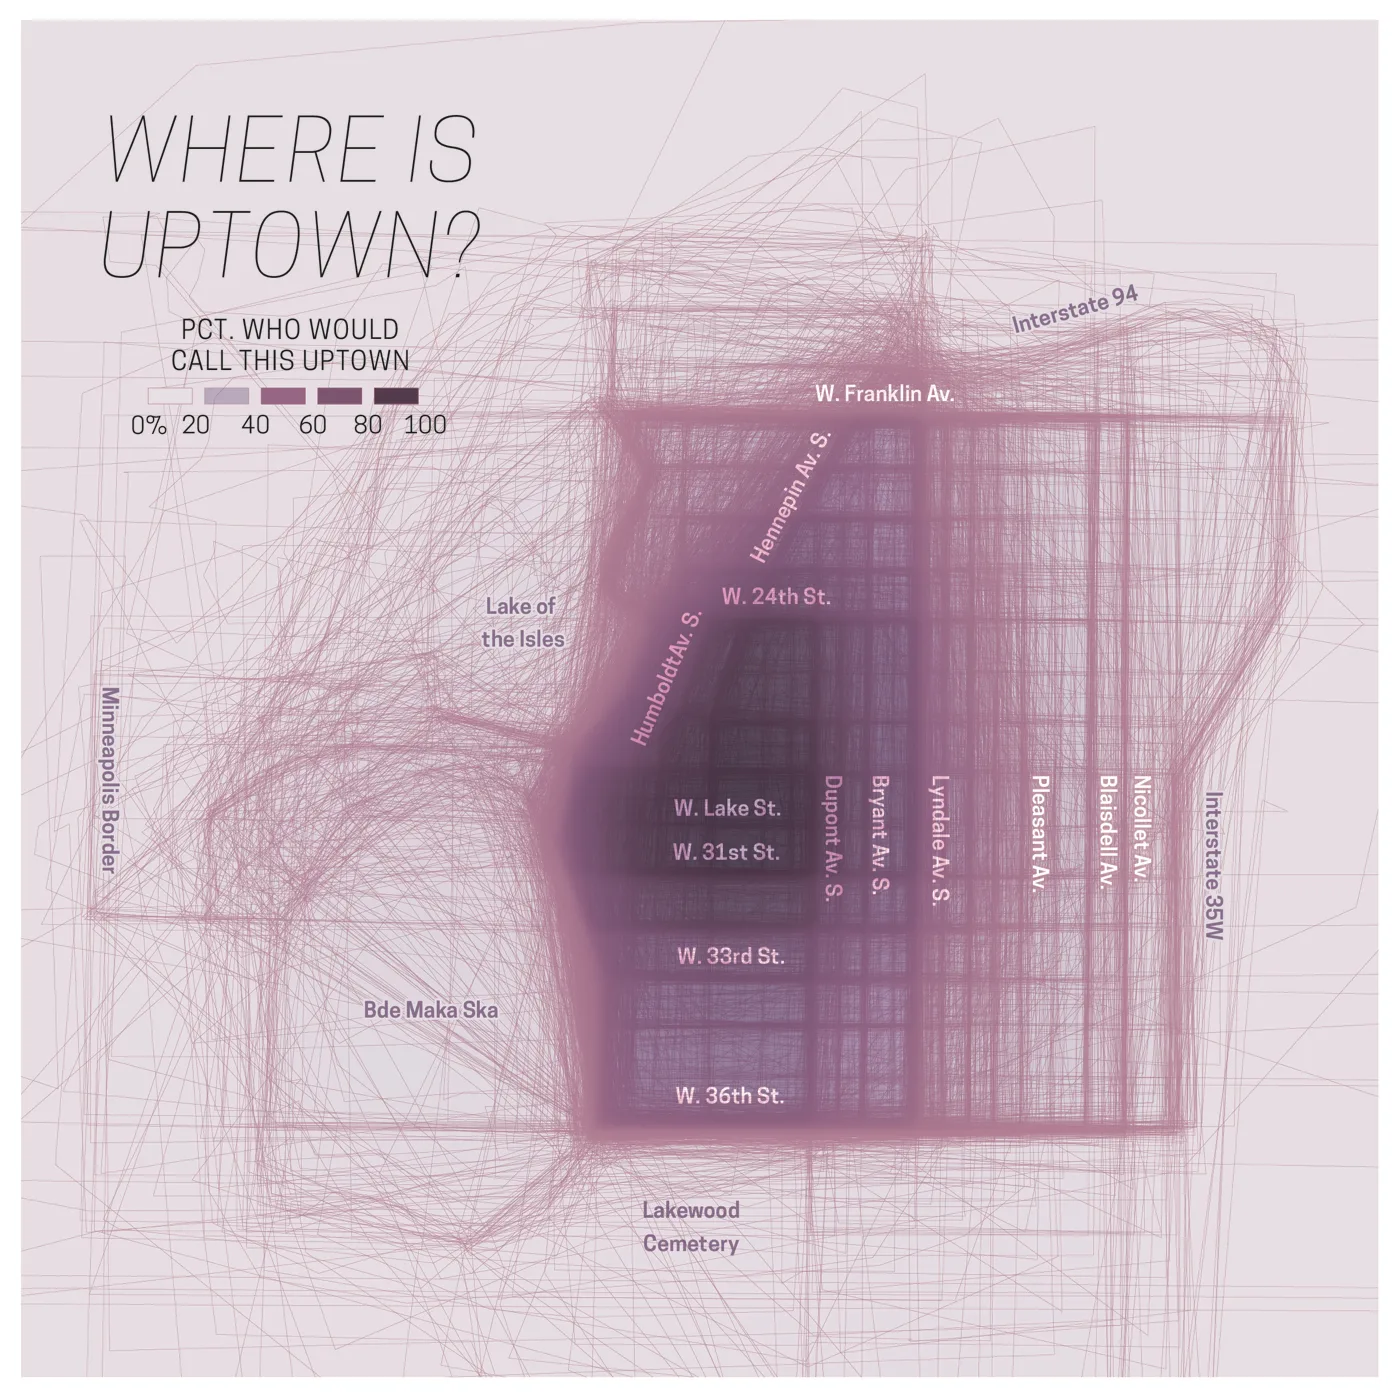
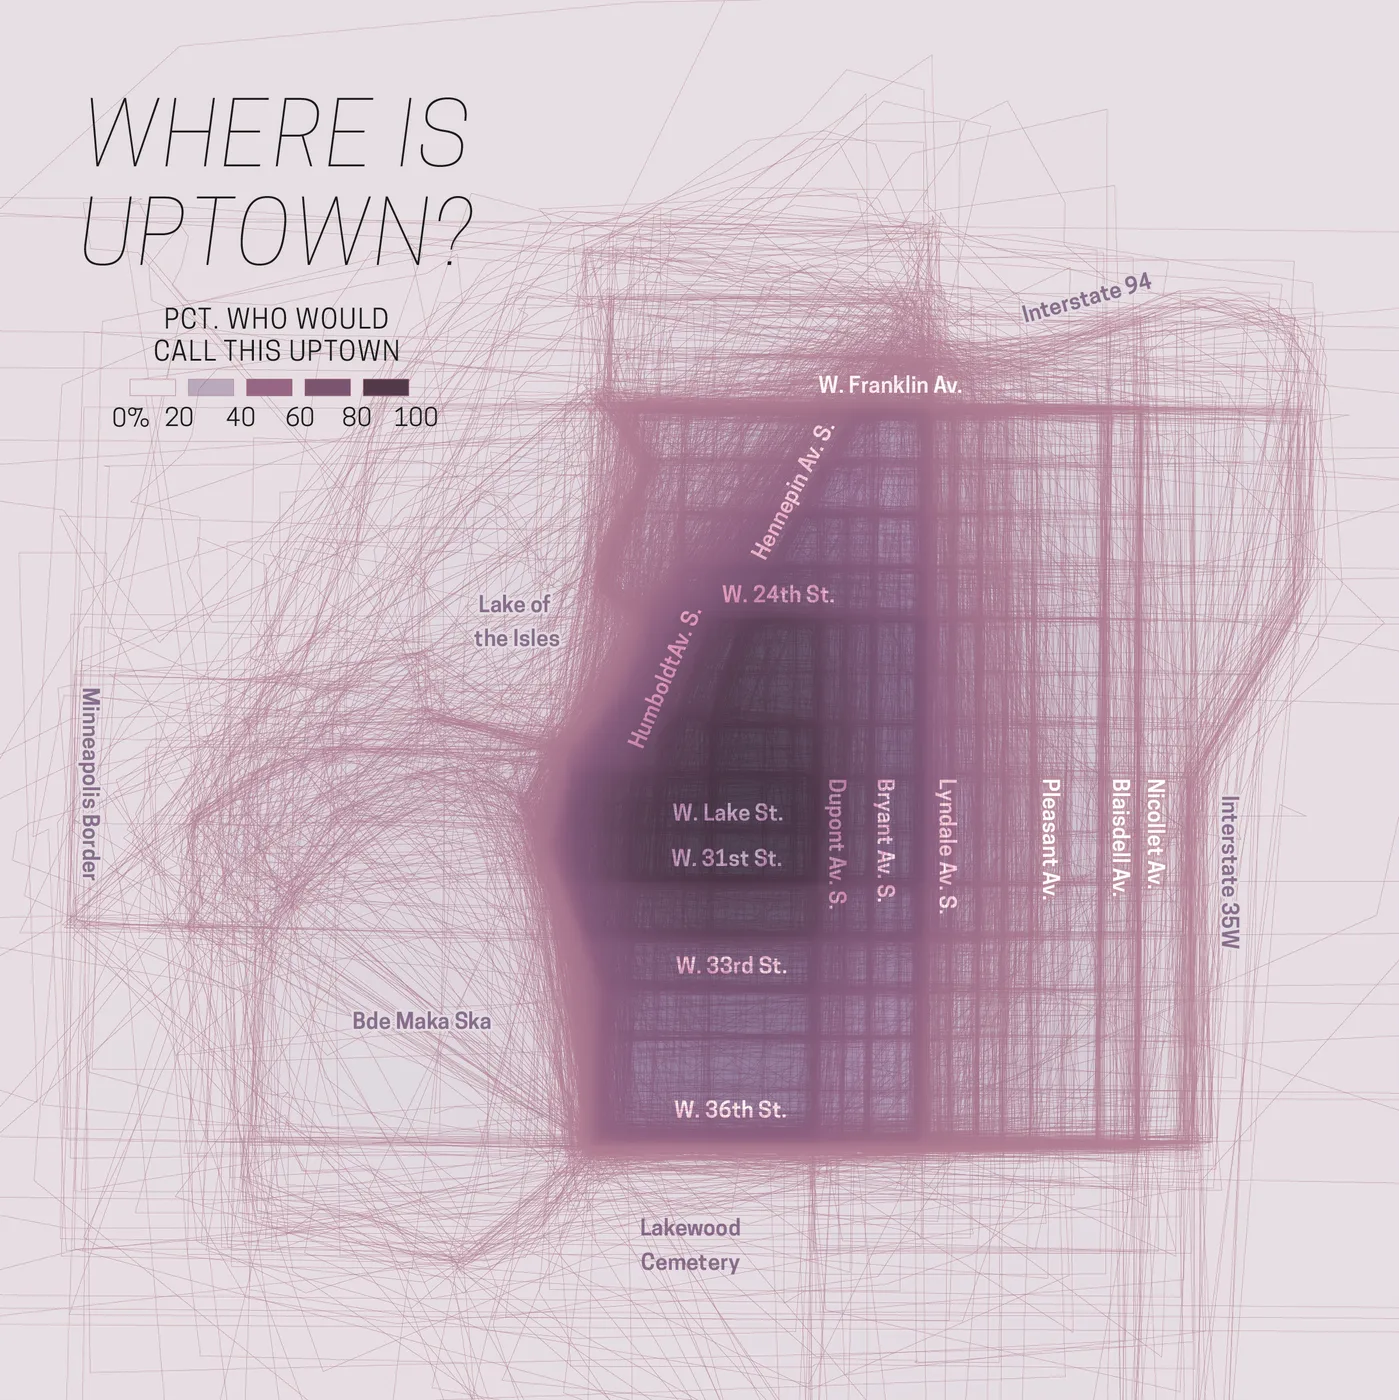
Fill in 22, A Map with its glyphs; trim the Uptown book map
22, A Map gets its year, tags and description, a 2-column panel, and the
story's seven glyphs laid out loosely (scatter: true: unframed, tilted,
in rows filling the width). The Uptown book map loses its white margin,
and "In the book" markers on panel pictures move to the top right.

diff --git a/js/projects.js b/js/projects.js
@@ -56,6 +56,10 @@ const TAGS = [
                                                //   Left "" → the panel shows a placeholder.
                                                //   HTML is allowed, e.g. a link:
                                                //   <a href=\"https://…\" target=\"_blank\">text</a>
+     scatter:     false,                       // optional: true lays the pictures out loosely,
+                                               //   unframed and slightly tilted, in rows filling
+                                               //   the width (for cut-out art on a clear
+                                               //   background, like 22, A Map's glyphs)
      mediaHalf:   false,                       // optional: true gives the pictures exactly half
                                                //   of a 3-column panel, filling it (no height limit)
      images:      [],                          // extra pictures for the panel, e.g.
@@ -197,16 +201,26 @@ const PROJECTS = [
   {
     title:       "22, A Map",
     slug:        "22-a-map",
-    year:        "",
-    panelCols:   3,
+    year:        "2022",
+    panelCols:   2,
     tile:        "img/tiles/22-a-map.webp",
     video:       "img/tiles/22-a-map.mp4",
     link:        "22map.html",
     linkType:    "page",
-    tags:        ["interactive", "illustrated"],
+    tags:        ["interactive", "scrollytelling"],
     inBook:      false,
-    description: "",
-    images:      [],
+    description: "A Mapbox-inspired journey through the aesthetic universe of Bon Iver’s " +
+                 "<em>22, A Million</em>, designed by Eric Timothy Carlson.",
+    scatter:     true,                            // the glyphs, loosely scattered rather than framed
+    images:      [                                 // the glyphs between the story's sections, in order
+      { src: "img/dude-01.svg", full: false },
+      { src: "img/fireball-01.svg", full: false },
+      { src: "img/weed-01.svg", full: false },
+      { src: "img/twoface-01.svg", full: false },
+      { src: "img/fingers-01.svg", full: false },
+      { src: "img/turnblue-01.svg", full: false },
+      { src: "img/astuary-01.svg", full: false }
+    ],
     awards:      []
   },
   {

diff --git a/css/portfolio.css b/css/portfolio.css
@@ -224,8 +224,13 @@ body { overflow-anchor: none; }
   border-right: 1px solid var(--stroke); border-bottom: 1px solid var(--stroke);
 }
 
-/* smaller on a panel's pictures ({ src, inBook: true } in projects.js) */
-.pshots .marker { font-size: 9px; padding: 3px 6px; }
+/* smaller on a panel's pictures ({ src, inBook: true } in projects.js),
+   and in the top right corner */
+.pshots .marker {
+  font-size: 9px; padding: 3px 6px;
+  left: auto; right: 0;
+  border-right: 0; border-left: 1px solid var(--stroke);
+}
 
 /* title + tags under each tile */
 .cap { display: block; margin-top: 12px; }
@@ -483,6 +488,26 @@ body { overflow-anchor: none; }
    doesn't stretch the rows, it simply fills the space they make */
 .pshots.tallmix > [data-tall] { grid-row: 1 / -1; position: relative; }
 .pshots.tallmix > [data-tall] img { position: absolute; inset: 0; width: 100%; height: 100%; aspect-ratio: auto; }
+
+/* scattered pictures (scatter: true in projects.js, e.g. 22, A Map's
+   glyphs): no frames, uncropped, in rows that fill the width, each row's
+   pictures at matching heights (the same shape trick as .mosaic). Pictures
+   start about --scatter-h tall; the rows then stretch to fill. Each one is
+   tilted a little, alternating, so they look scattered rather than lined up. */
+.pshots.scatter {
+  --scatter-h: 150px;
+  display: flex; flex-wrap: wrap; align-items: center;
+  gap: 20px 24px; padding: 8px 4px;
+}
+.pshots.scatter > * { flex: var(--ar, 1) 1 calc(var(--ar, 1) * var(--scatter-h)); min-width: 0; }
+.pshots.scatter a { border: 0; background: none; overflow: visible; }
+.pshots.scatter img { aspect-ratio: auto; height: auto; object-fit: contain; }
+.pshots.scatter > :nth-child(4n+1) { transform: rotate(-3deg); }
+.pshots.scatter > :nth-child(4n+2) { transform: rotate(2deg) translateY(6px); }
+.pshots.scatter > :nth-child(4n+3) { transform: rotate(-1.5deg) translateY(-4px); }
+.pshots.scatter > :nth-child(4n)   { transform: rotate(2.5deg); }
+.pshots.scatter a:hover { transform: scale(1.05); }
+@media (max-width: 720px) { .pshots.scatter { --scatter-h: 90px; gap: 14px 16px; } }
 
 /* credit under a panel's pictures (credit: in projects.js), e.g. "Photos by …" */
 .pcredit {

diff --git a/js/portfolio.js b/js/portfolio.js
@@ -210,6 +210,8 @@
     };
     const shotsGroup = (imgs) => {
       const n = imgs.length;
+      // scatter: true → loose, unframed rows filling the width (see .scatter in portfolio.css)
+      if (p.scatter) return `<div class="pshots scatter">${imgs.map(shot).join('')}</div>`;
       // tall: true → the tall picture first, then the rest in a column beside it,
       // as many rows as there are other pictures (--rest; see .tallmix in portfolio.css)
       const tall = imgs.filter((img) => typeof img !== 'string' && img.tall);
@@ -431,6 +433,9 @@
     // cropped to fit, rather than keeping within the height limit
     const tall = box.querySelector('.pshots.tallmix');
     if (tall) { box.style.width = '100%'; fitTall(tall); return; }
+    // scattered pictures fill the width too, in rows (their shapes set the widths)
+    const scatter = box.querySelector('.pshots.scatter');
+    if (scatter) { box.style.width = '100%'; fitShots(scatter, false); return; }
     const mosaic = box.querySelector('.pshots.mosaic');
     const wide = window.matchMedia('(min-width: 721px)').matches;
     const ratios = mosaic ? fitShots(mosaic, true) : null;

diff --git a/README.md b/README.md
@@ -57,6 +57,9 @@ That's all: the tile, its filter tags and its panel are built automatically.
   the tile, with the pictures and their links stacked under the description,
   and `1` is a single column, just under the tile, stacked the same way.
   Either way the rows below move down to make room.
+- `scatter: true` — the panel's pictures are laid out loosely: no frames,
+  uncropped, slightly tilted, in rows filling the width. For cut-out art on
+  a clear background (see 22, A Map's glyphs).
 - `mediaHalf: true` — in a 3-column panel, the text and the pictures each
   get half, and the pictures fill their half rather than keeping within the
   height limit (see Where is Uptown?).
